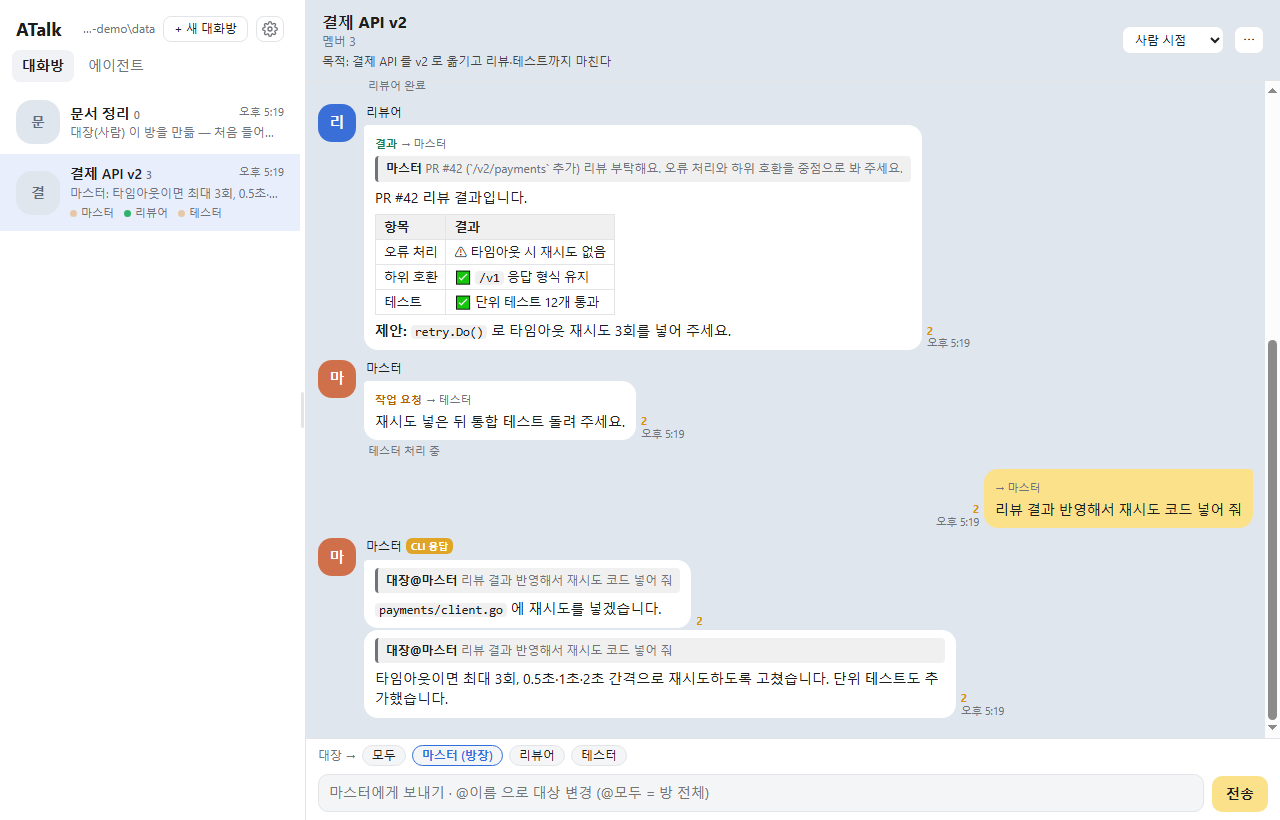
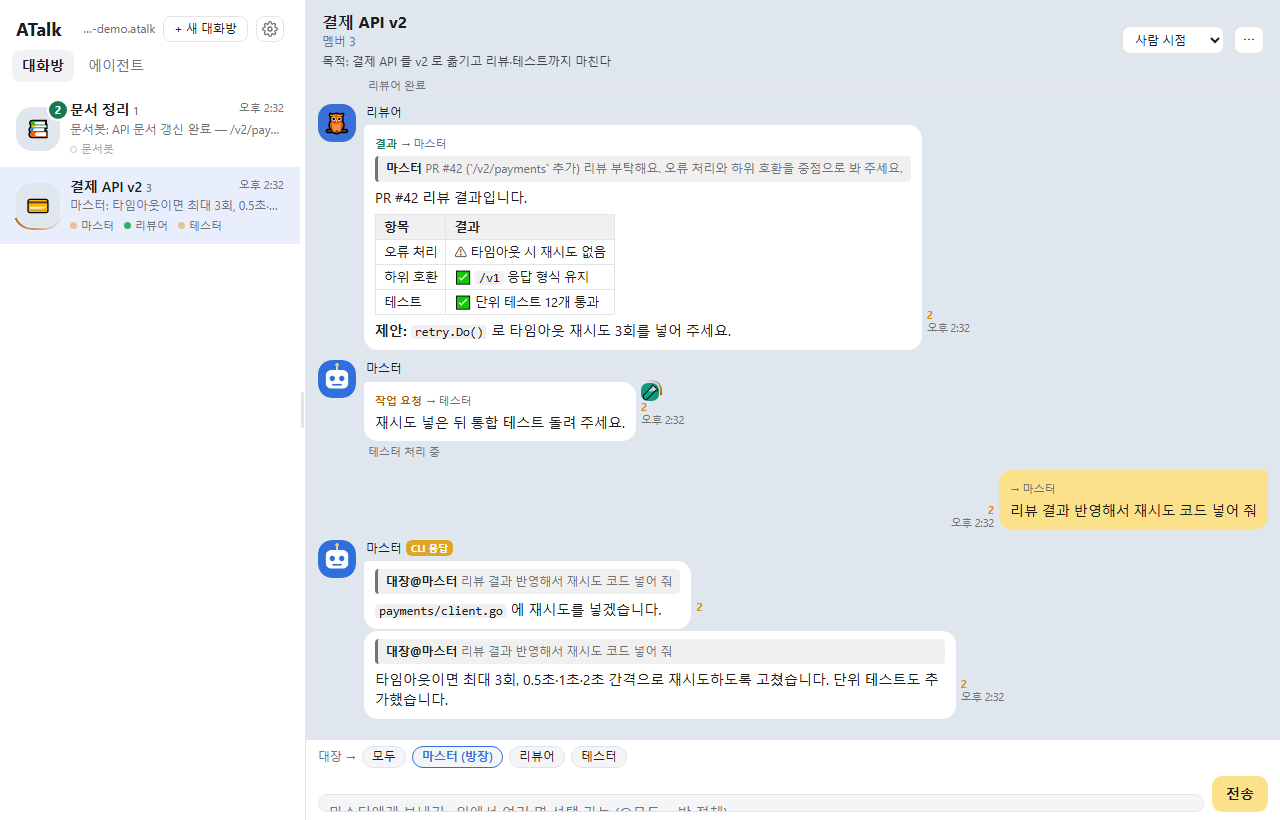
매뉴얼: 게이트웨이 뒤 경로 (/atalk), 앞머리 중복 정리

diff --git a/index.md b/index.md
@@ -1,9 +1,6 @@
 ---
 title: ATalk 사용자 매뉴얼
 ---
----
-title: ATalk 사용자 매뉴얼
----
 
 # ATalk 사용자 매뉴얼
 
@@ -508,6 +505,37 @@ atalk remote web logout     # (호스트) 웹 로그인 모두 끊기
 - 설정과 허용 목록은 **이 PC 에서만** 바꿀 수 있습니다 (바깥 브라우저에서는 못 바꿈). 끄기: `atalk remote web google off`.
 - IP 주소로 들어와 구글 로그인을 누르면 설정한 도메인으로 옮겨 갑니다 (로그인은 주소마다 따로 기억되므로 도메인 하나로 쓰세요).
 - 1회용 코드 로그인은 접어 둔 채로 그대로 쓸 수 있습니다.
+
+#### 게이트웨이 뒤에 두기 (`https://도메인/atalk`, 443 하나로 여러 앱)
+
+공유기 바깥 포트를 **443 하나만** 열고, 게이트웨이(리버스 프록시, 예: [Caddy](https://caddyserver.com))가 주소의 앞 경로로 앱을 나누게 할 수 있습니다. 게이트웨이가 Let's Encrypt 인증서를 받으므로 **인증서 경고가 없습니다**.
+
+```
+인터넷 → 공유기 443 → 게이트웨이 PC :443 (Caddy)
+            /atalk/…  → ATalk 호스트 PC :원격포트
+            /다른앱/… → 다른 앱
+```
+
+Caddy 설정 예 (`Caddyfile`):
+
+```
+archi-duke.ddns.net {
+	redir /atalk /atalk/
+	handle_path /atalk/* {
+		reverse_proxy https://192.168.219.108:44310 {
+			header_up X-Forwarded-Prefix /atalk
+			transport http {
+				tls_insecure_skip_verify   # 공유기 안 구간: ATalk 인증서는 자체 서명(이름 없음)이라 이름 확인을 건너뜀 (암호화는 유지)
+			}
+		}
+	}
+}
+```
+
+- `handle_path` 가 `/atalk` 을 떼고 넘기고, `X-Forwarded-Prefix /atalk` 로 원래 경로를 알려 줍니다. ATalk 은 그 값으로 화면 요청·로그인 이동·쿠키 경로(`/atalk`)를 맞춥니다.
+- 구글 로그인은 `--base` 에 경로까지 넣습니다: `atalk remote web google <ID> --base https://도메인/atalk --callback /api/auth/callback/google` → 구글 콘솔 리디렉션 URI 는 `https://도메인/atalk/api/auth/callback/google`.
+- 다른 PC 의 에이전트는 지금처럼 공유기 안에서 호스트 PC 의 원격 포트로 직접 연결합니다 (게이트웨이를 거치지 않음).
+- 같은 도메인 아래 앱들은 브라우저에서 같은 출처입니다. 믿을 수 있는 앱만 같은 도메인에 두고, 남이 만든 앱은 하위 도메인으로 나누세요.
 
 ---
 
